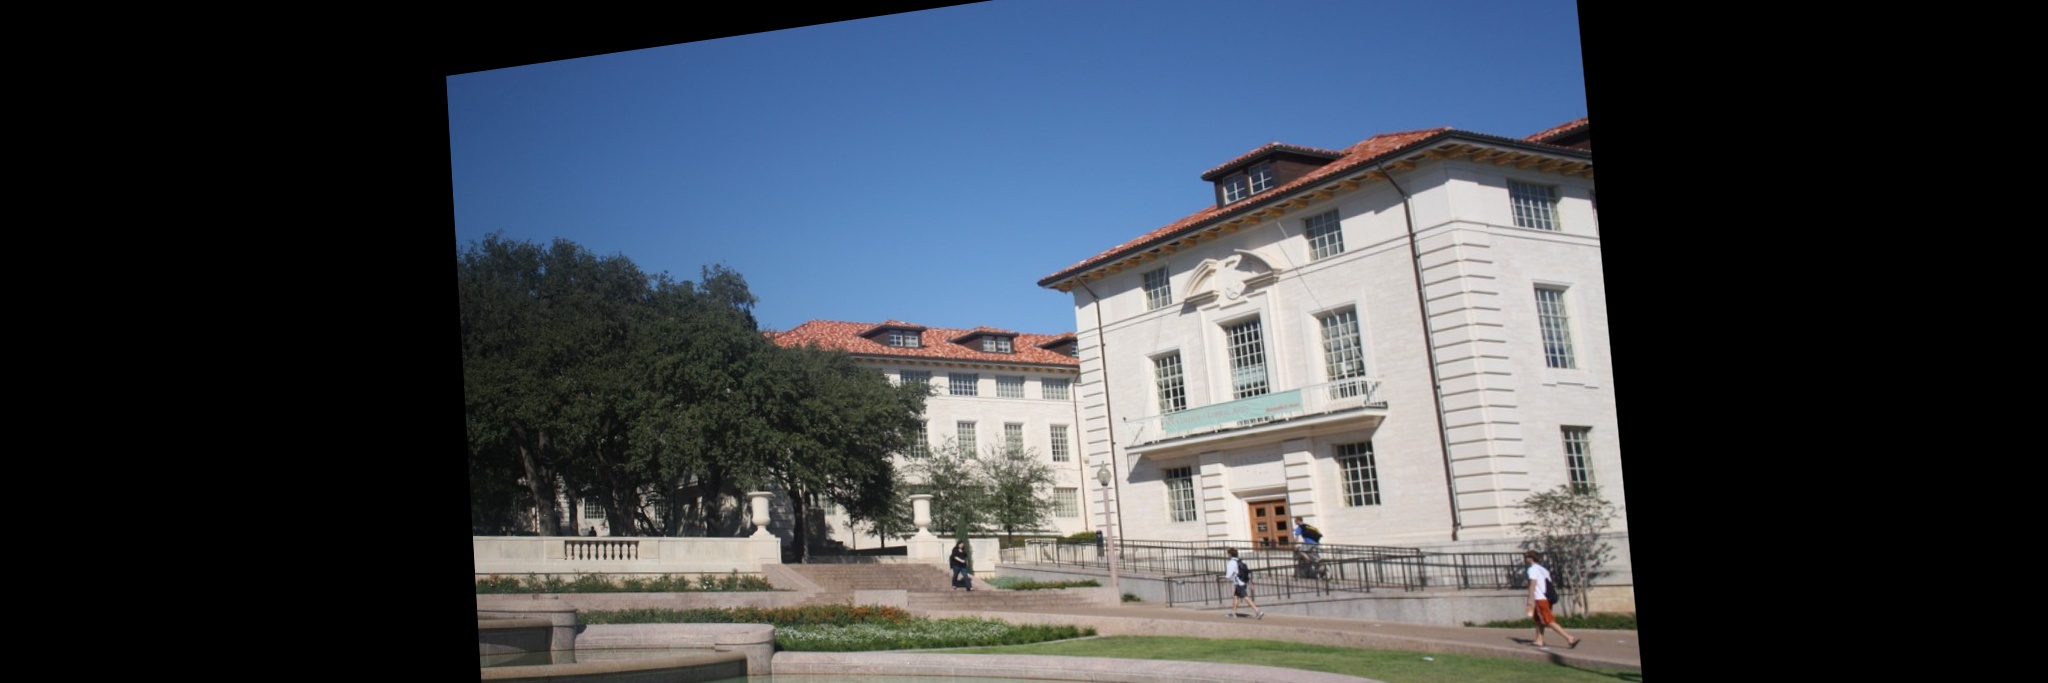
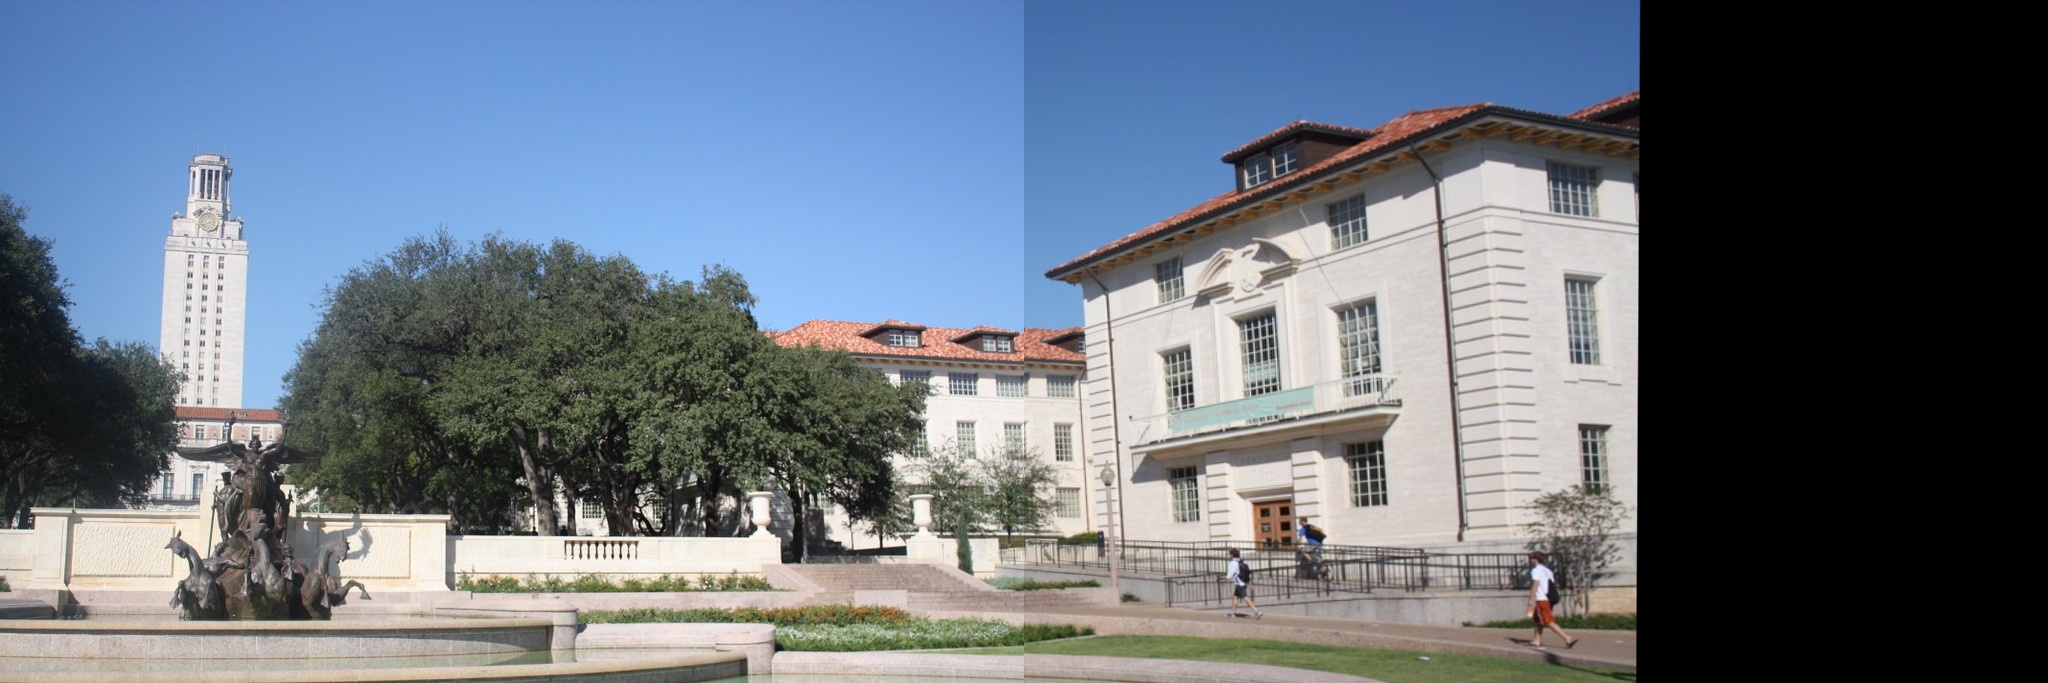
imshow, colors fixed

diff --git a/trabalho_4/trabalho_4.py b/trabalho_4/trabalho_4.py
@@ -52,30 +52,38 @@ def brief_match(imgA,imgB):
             good.append([m])
             good_without_list.append(m)
     imMatches = cv2.drawMatchesKnn(imgA,kp1,imgB,kp2,matches,None,flags=2)
-    #dst = cv2.warpPerspective(imgA,H,(imgB.shape[1] + imgB.shape[1], imgB.shape[0]))
-    dst = None
     
+    match = np.asarray(good)
+    if len(match[:,0]) >= 4:
+        src = np.float32([ kp1[m.queryIdx].pt for m in match[:,0] ]).reshape(-1,1,2)
+        dst = np.float32([ kp2[m.trainIdx].pt for m in match[:,0] ]).reshape(-1,1,2)
+
+    H, masked = cv2.findHomography(src, dst, cv2.RANSAC, 5.0)
+    print(H)
+    dst = cv2.warpPerspective(imgA,H,(imgB.shape[1] + imgA.shape[1], imgB.shape[0]))
+    
+    dst[0:imgA.shape[0], 0:imgA.shape[1]] = imgB
     return imMatches,dst
     
 
 imgA = cv2.imread("img/foto1A.jpg")
 imgB = cv2.imread("img/foto1B.jpg")
 
-sift = cv2.xfeatures2d.SIFT_create()
-surf = cv2.xfeatures2d.SURF_create()
+#sift = cv2.xfeatures2d.SIFT_create()
+#surf = cv2.xfeatures2d.SURF_create()
 
 orb = cv2.ORB_create()
-#imMatches,dst =  match(imgA,imgB,orb)
-imMatches,dst = brief_match(imgA,imgB)
-#cv2.imwrite("matches.jpg", imMatches)
-plt.imshow(imMatches)
+imMatches,dst =  match(imgA,imgB,orb)
+#imMatches,dst = brief_match(imgA,imgB)
+cv2.imwrite("matches.jpg", imMatches)
+plt.imshow(np.flip(imMatches, axis=2))
 plt.show()
 cv2.waitKey()
 cv2.destroyAllWindows()
 
-"""
 cv2.imwrite("output.jpg",dst)
-plt.imshow(dst)
+plt.imshow(np.flip(dst, axis=2))
 plt.show()
-cv2.
-"""
+cv2.waitKey()
+cv2.destroyAllWindows()
+
